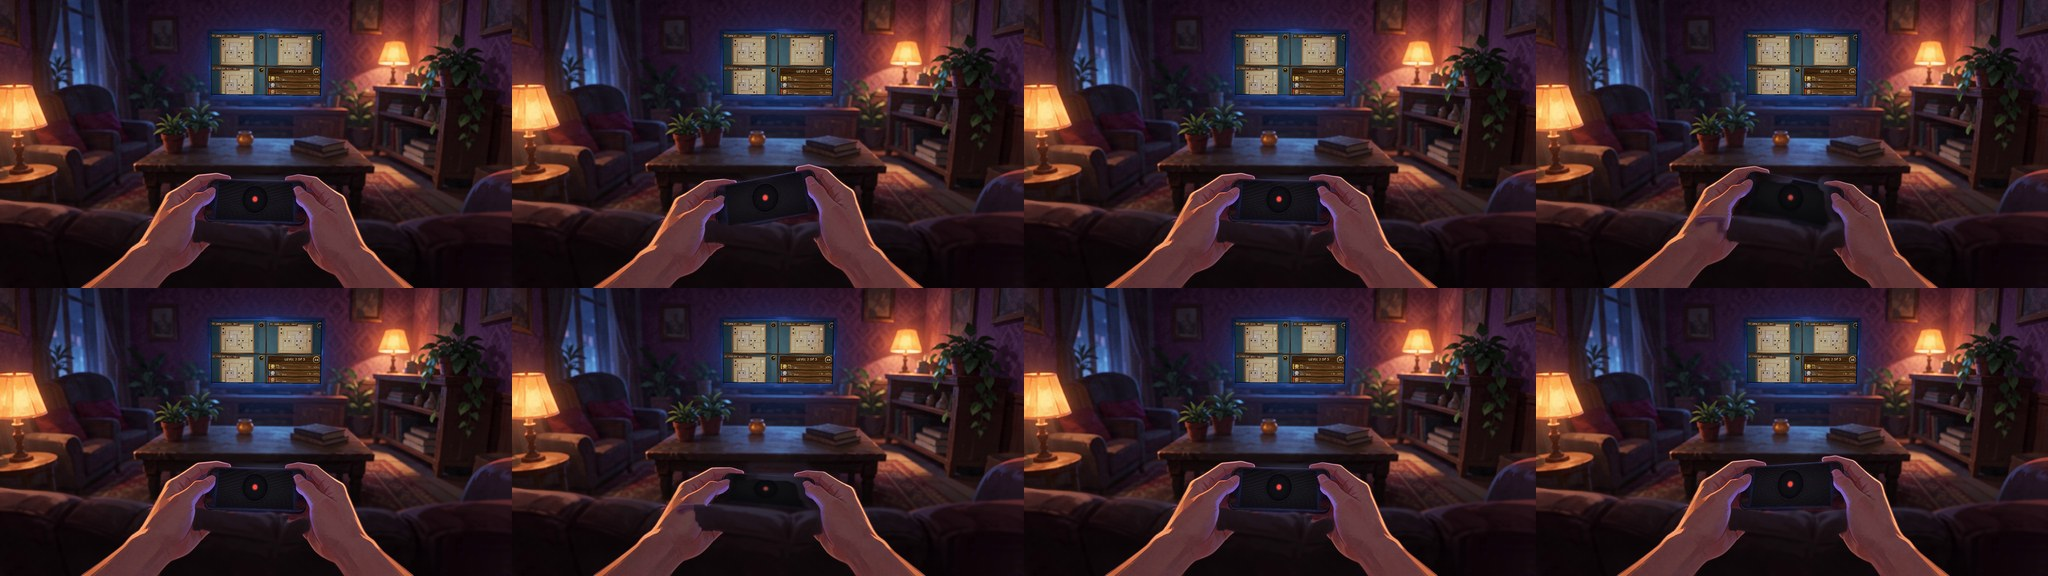
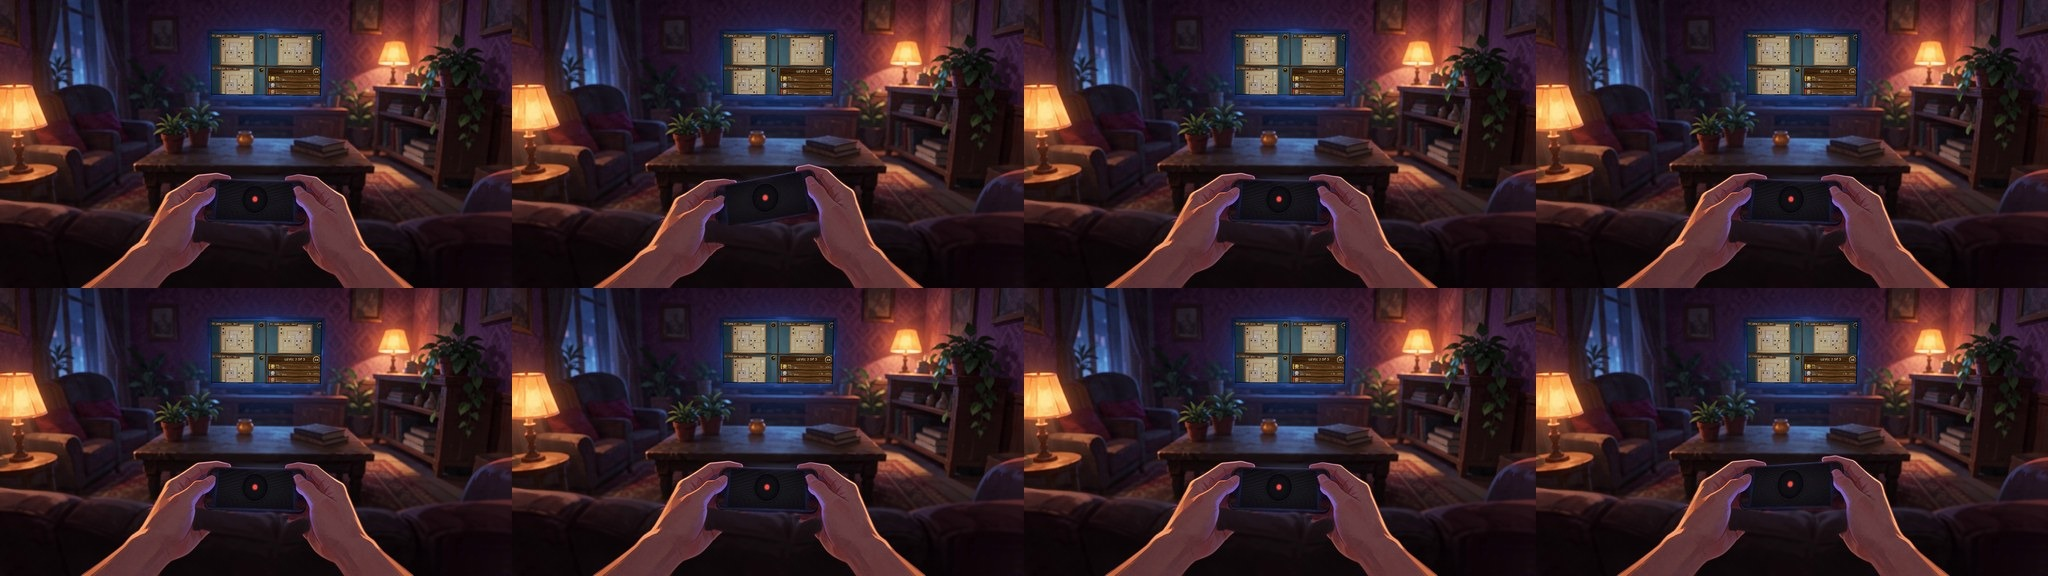
Tutoriales: la selección de Nico pasa a ser la del build (elegidos.txt); laberinto sin los cuadros de la mano con el sillón

Changed region(s): [[0.7812, 0.2812, 0.9688, 0.5], [0.3125, 0.7812, 0.4375, 0.9375]]

diff --git a/index.html b/index.html
@@ -139,7 +139,7 @@ PEOPLE.forEach(p => {
 function paintWho(){ [...$('who').children].forEach(b => b.setAttribute('aria-pressed', String(b.textContent === pick))); }
 paintWho();
 async function sha(s){ const h = await crypto.subtle.digest('SHA-256', new TextEncoder().encode(s)); return [...new Uint8Array(h)].map(x => x.toString(16).padStart(2,'0')).join(''); }
-const RESET = {"coco": 1, "cami": 1};
+const RESET = {"coco": 1, "cami": 1, "nico": 1};
 let unlocked = false; try { unlocked = localStorage.getItem('tutos_ok') === PW_HASH; } catch(e) {}
 if (unlocked && pick) enter(pick);
 $('gateForm').addEventListener('submit', async e => {
